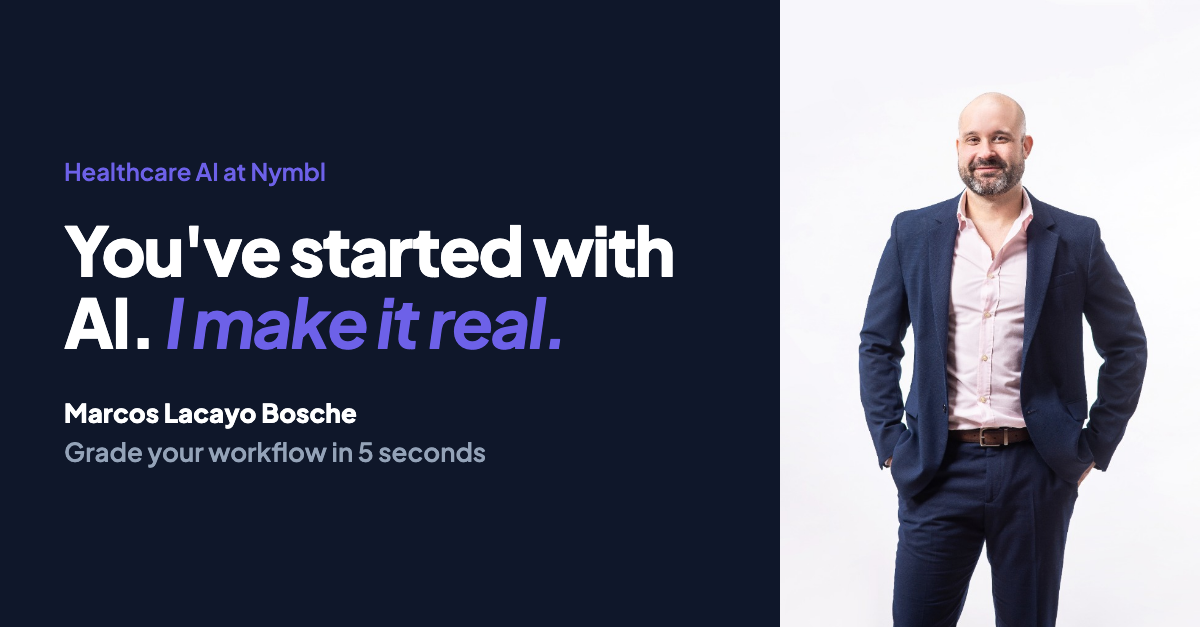
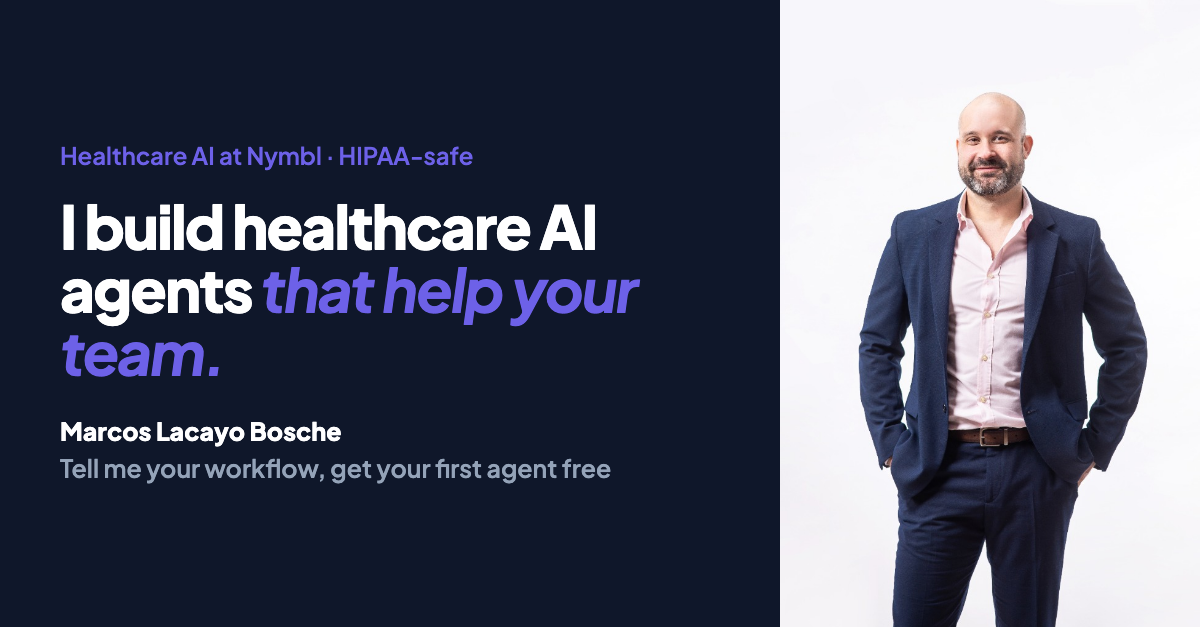
og: LinkedIn preview with the new headline (AI agents that help your team)

Changed region(s): [[0.0308, 0.2121, 0.5858, 0.6061], [0.0308, 0.6364, 0.5242, 0.7879]]

diff --git a/index.html b/index.html
@@ -18,7 +18,7 @@
     content="I build HIPAA-safe AI agents that help healthcare teams work more efficiently, connected to your EMR, billing and phones. Tell me your workflow and I'll build your first agent free.">
   <meta property="og:type" content="website">
   <meta property="og:url" content="https://www.marcoslacayobosche.com/">
-  <meta property="og:image" content="https://www.marcoslacayobosche.com/images/og-image.png">
+  <meta property="og:image" content="https://www.marcoslacayobosche.com/images/og-image.png?v=2">
   <meta property="og:image:width" content="1200">
   <meta property="og:image:height" content="627">
 
@@ -27,7 +27,7 @@
   <meta name="twitter:title" content="Marcos Lacayo Bosche | Healthcare AI agents that help your team">
   <meta name="twitter:description"
     content="I build HIPAA-safe AI agents that help healthcare teams work more efficiently, connected to your EMR, billing and phones. Tell me your workflow and I'll build your first agent free.">
-  <meta name="twitter:image" content="https://www.marcoslacayobosche.com/images/og-image.png">
+  <meta name="twitter:image" content="https://www.marcoslacayobosche.com/images/og-image.png?v=2">
 
   <!-- Fonts -->
   <link rel="preconnect" href="https://fonts.googleapis.com">
